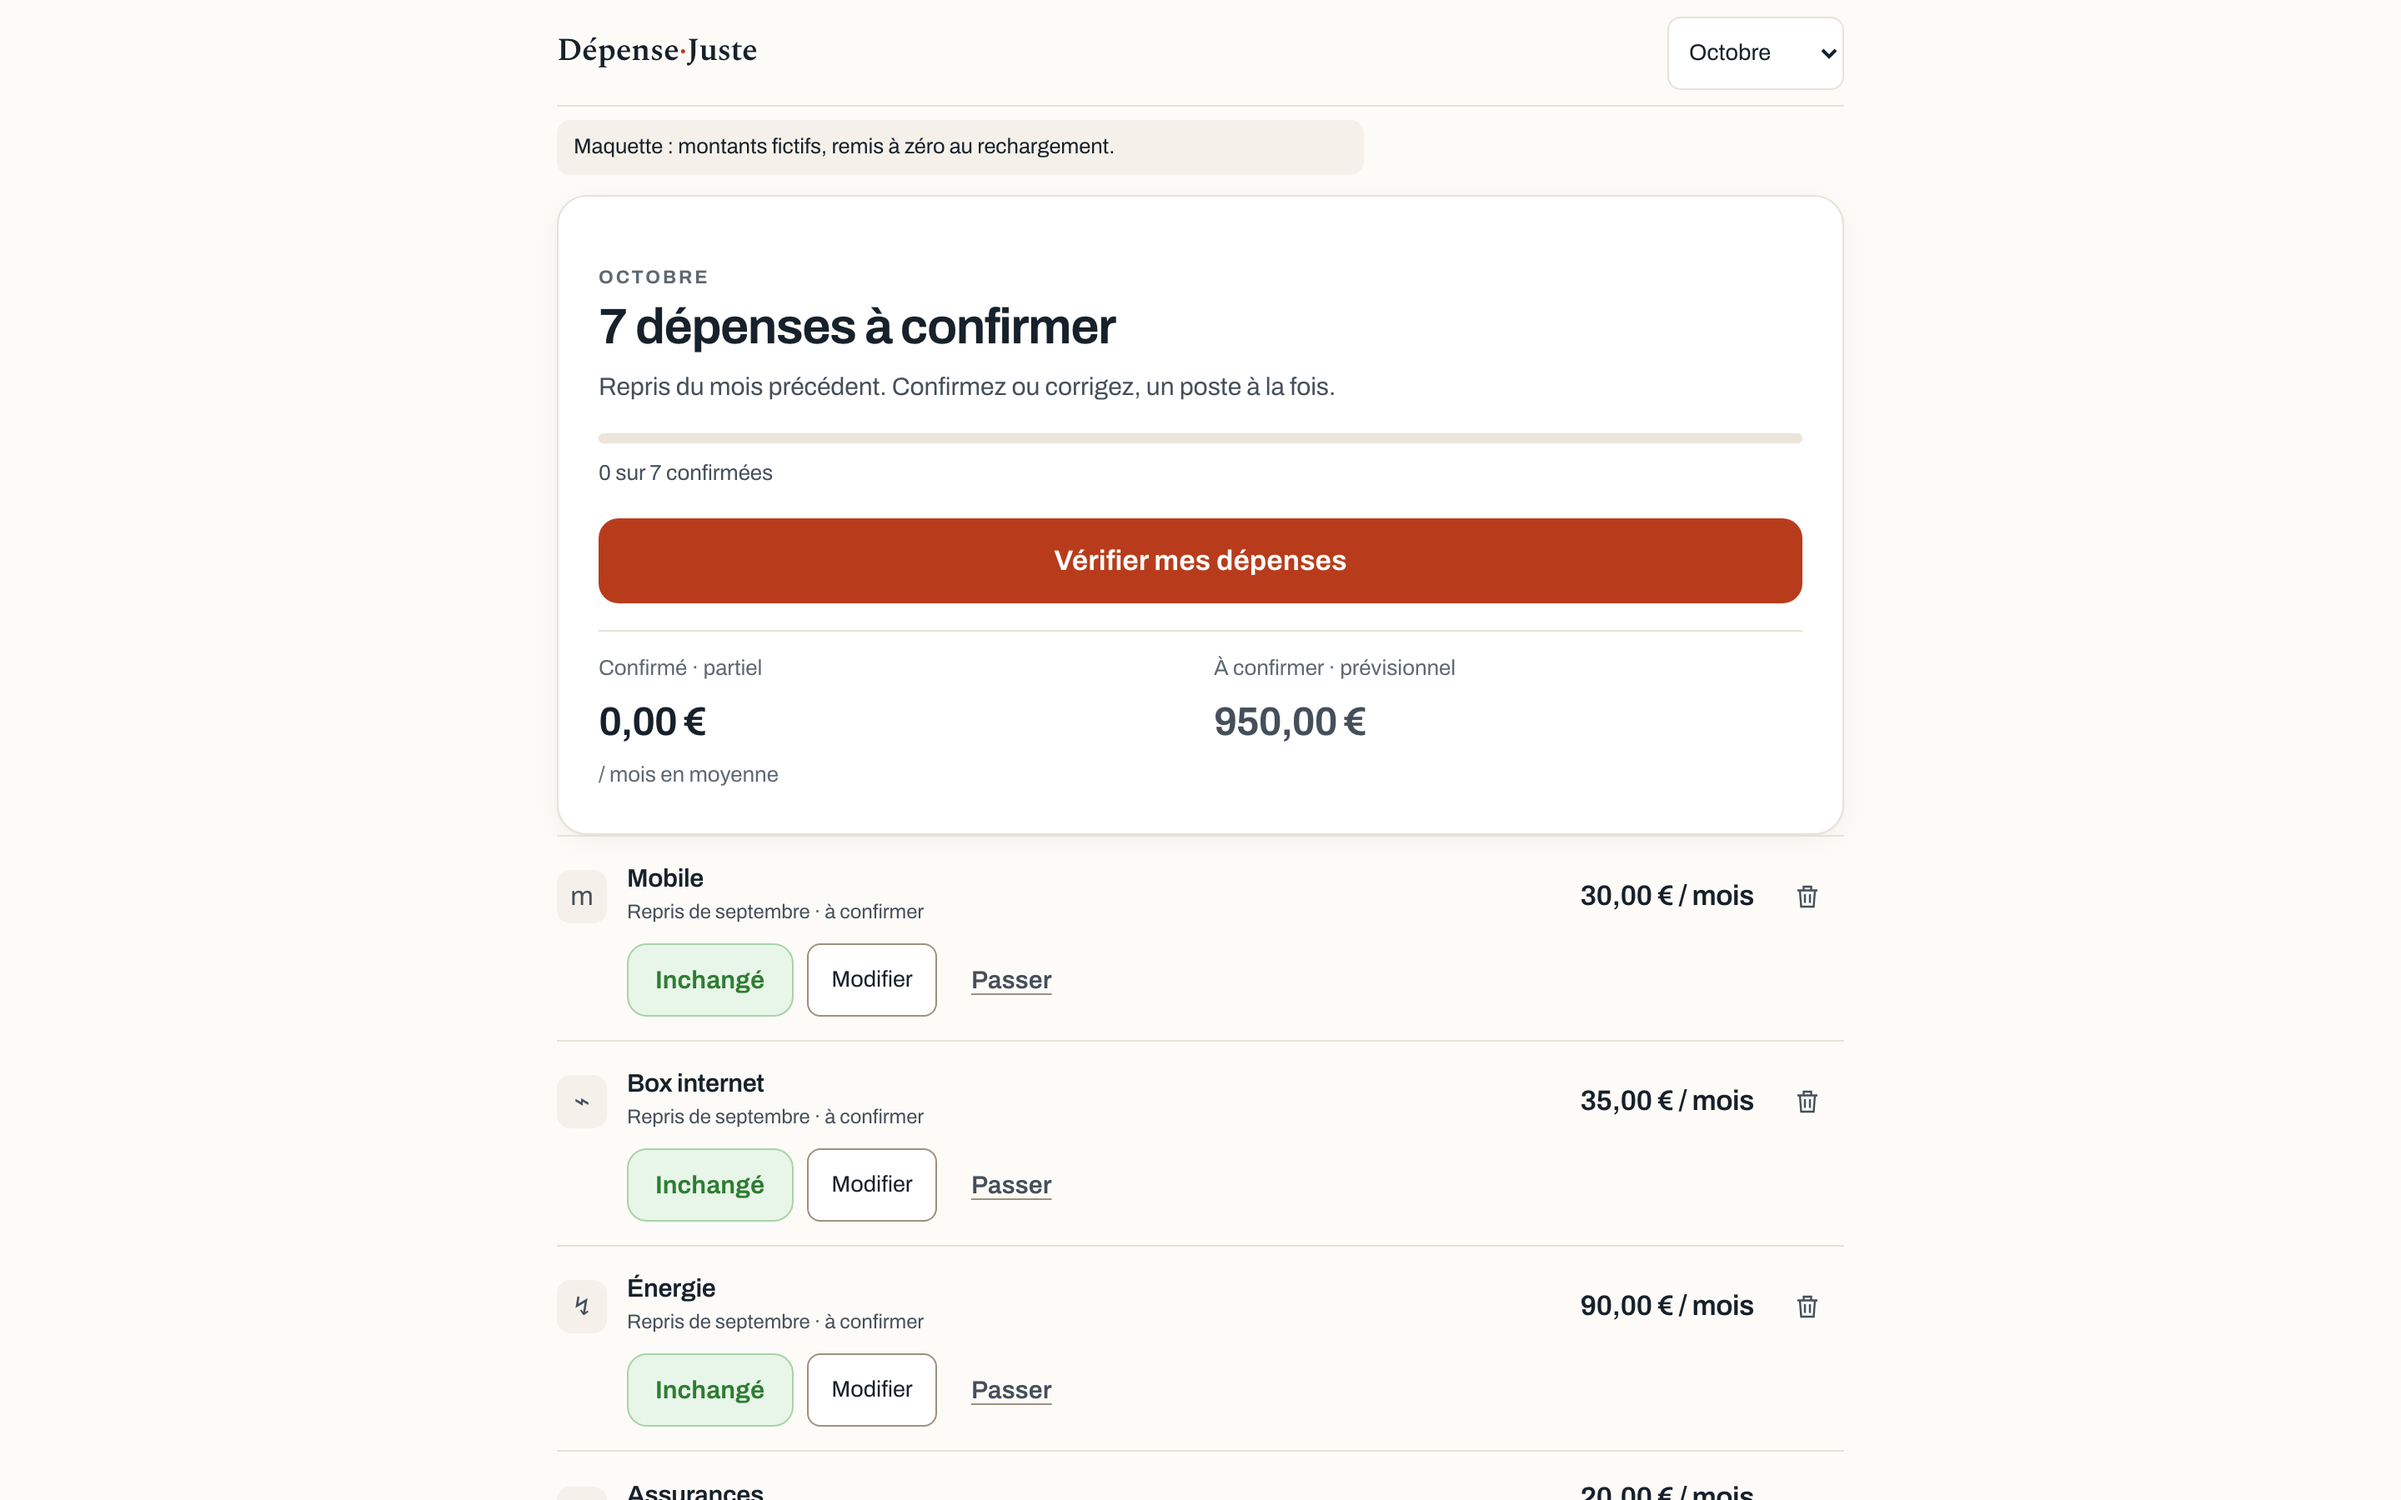
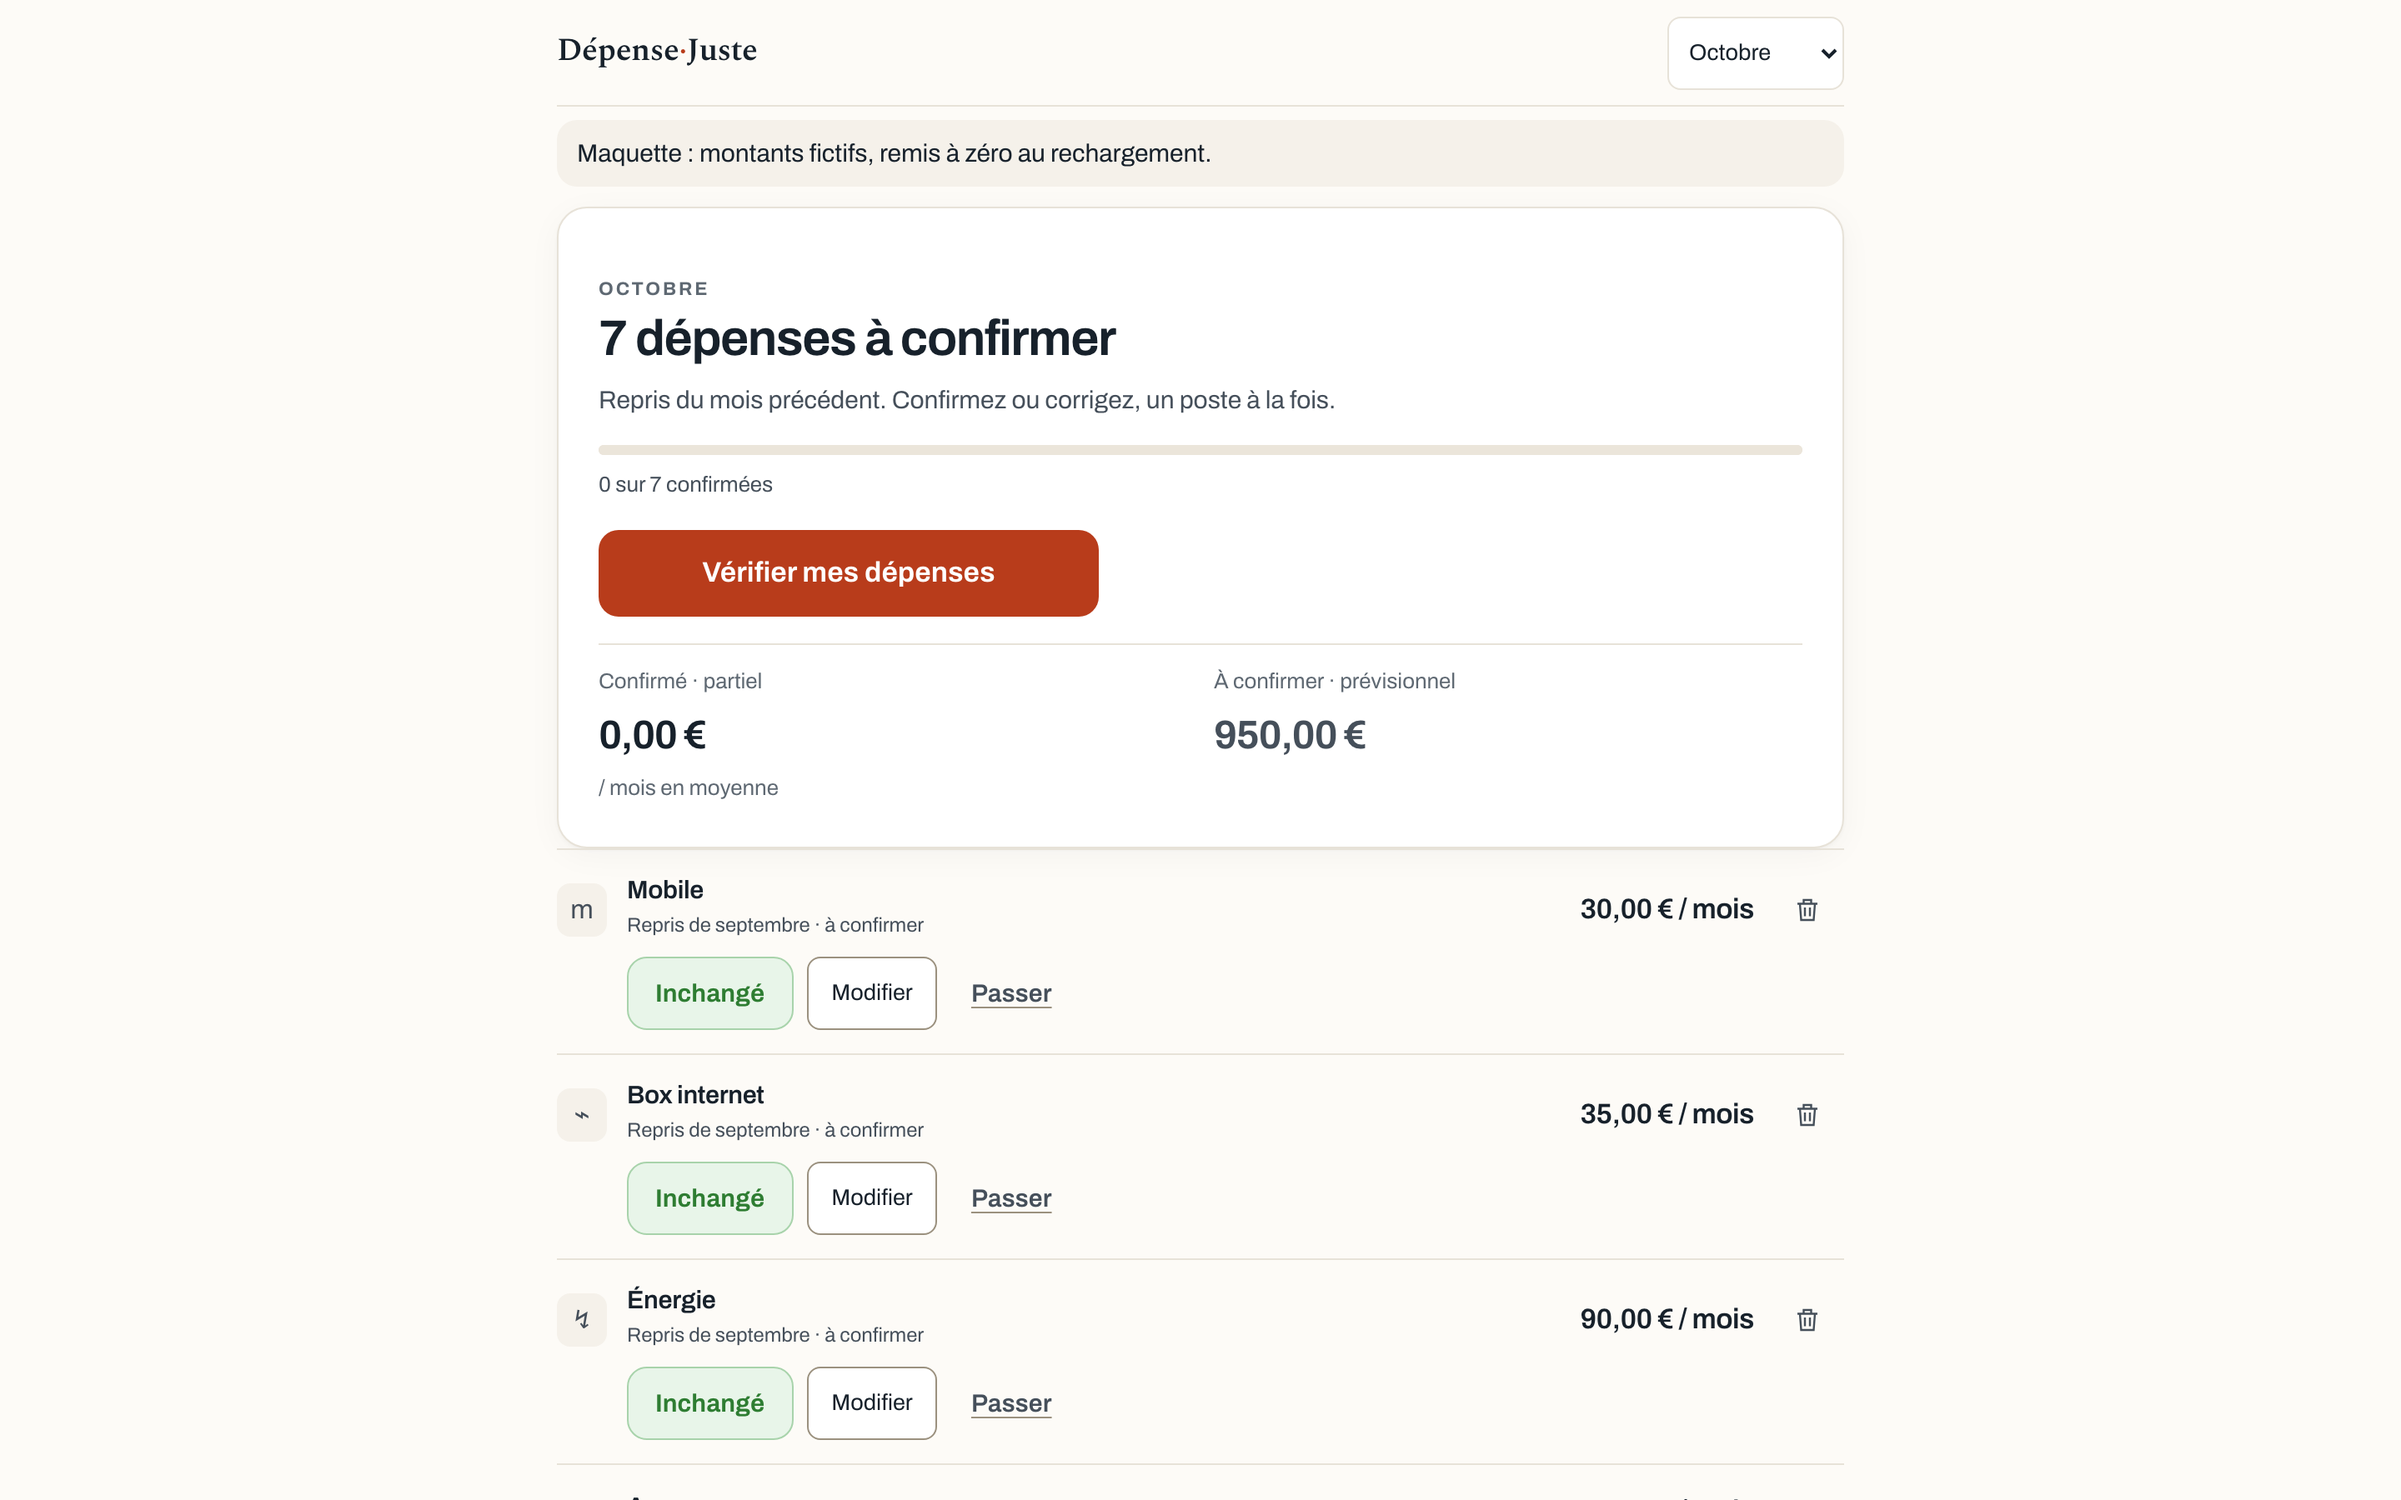
Le bouton principal ne s'étire plus sur mille pixels
Pleine largeur au doigt, où la cible compte ; largeur propre au-delà de 700 px,
où un bouton de la largeur de l'écran n'est pas plus visible, seulement plus
insistant. La mention « montants fictifs » héritait du max-width de lecture des
paragraphes et s'arrêtait aux deux tiers du module : elle suit maintenant sa
largeur. Une règle en double, héritée de l'ancienne feuille, a été retirée.

Captures de comparaison réécrites. 64 tests verts.

diff --git a/web/tableau-demo.css b/web/tableau-demo.css
@@ -15,7 +15,10 @@ button,input,select{font:inherit}button,a,summary{touch-action:manipulation}butt
 .module-attention h2{font-size:var(--t-h2);margin-top:var(--s1)}
 .module-dit{margin:var(--s2) 0 0;font-size:var(--t-small);line-height:1.5;color:var(--ink-muted)}
 .module-attention .review-action{margin-top:var(--s4)}
+/* Pleine largeur au doigt, où la cible compte. Sur grand écran, un bouton de
+   mille pixels n'est pas plus visible, seulement plus insistant. */
 .review-action .primary{width:100%}
+@media(min-width:701px){.review-action .primary{width:auto;min-width:300px}}
 /* Les montants restent au second rang, mais dans le même module : deux cartes
    empilées repoussaient la première dépense à 612 px sur un écran de 568. */
 .module-chiffres{display:grid;grid-template-columns:1fr 1fr;gap:2px var(--s4);margin-top:var(--s4);padding-top:var(--s3);border-top:1px solid var(--line)}
@@ -40,7 +43,7 @@ progress::-moz-progress-bar{background:var(--accent)}
    terracotta, c'était le seul élément coloré de la ligne : l'œil y allait
    avant la validation. */
 .btn-passer{background:none;color:var(--ink-muted);font-weight:600;font-size:var(--t-small);min-height:44px;padding:var(--s2) var(--s3);text-decoration:underline;text-underline-offset:3px;text-decoration-color:var(--line-strong)}
-.btn-passer:hover{color:var(--ink);text-decoration-color:currentColor}.secondary{background:var(--surface);color:var(--ink);border:1px solid var(--line-strong);border-radius:8px;padding:8px 14px;font-size:.85rem}.text-action{background:none;color:var(--signature);padding:8px 4px;font-size:.85rem;font-weight:600}.review-action .primary{width:100%}.demo-note{background:var(--surface-2);border-radius:8px;padding:6px 10px;font-size:.8rem;color:var(--ink);margin:8px 0 0}
+.btn-passer:hover{color:var(--ink);text-decoration-color:currentColor}.secondary{background:var(--surface);color:var(--ink);border:1px solid var(--line-strong);border-radius:8px;padding:8px 14px;font-size:.85rem}.text-action{background:none;color:var(--signature);padding:8px 4px;font-size:.85rem;font-weight:600}.demo-note{background:var(--surface-2);border-radius:var(--r);padding:var(--s2) var(--s3);font-size:var(--t-small);color:var(--ink);margin:var(--s2) 0 0;max-width:none}
 .expenses{border-top:1px solid var(--line)}.expense{display:grid;grid-template-columns:32px minmax(0,1fr) auto 44px;gap:6px 10px;border-bottom:1px solid var(--line);padding:14px 0;align-items:center;scroll-margin-top:12px}.expense-symbol{background:var(--surface-2);border-radius:8px;width:30px;height:32px;display:grid;place-items:center;color:var(--ink-muted)}.expense h3{font-size:.95rem}.expense p{font-size:.75rem;margin:2px 0 0;color:var(--ink-muted)}.value{text-align:right;font-variant-numeric:tabular-nums;font-weight:650;font-size:.95rem}.value small{display:block;font-size:.7rem;font-weight:400;color:var(--ink-muted)}.icon{min-width:44px;min-height:44px;background:none;color:var(--ink-muted);display:grid;place-items:center}.icon svg{width:18px;height:18px}.fast-actions{grid-column:2/-1;display:flex;flex-wrap:wrap;gap:8px;align-items:center}.inline-editor{grid-column:1/-1;min-width:0}.inline-editor:empty{display:none}.inline-editor form{padding:16px;background:var(--surface-2);border-radius:10px}.inline-editor .small,.inline-editor .eyebrow{display:none}.inline-editor h2{font-size:1.15rem}.inline-editor .dialog-head{float:right}#add{margin-top:16px;width:100%}#milestone{background:var(--signature-soft);padding:12px;border-radius:8px;margin:8px 0;font-size:.85rem}#milestone button{display:block}
 .expense.en-cours{background:var(--signature-soft);border-radius:10px;box-shadow:inset 3px 0 0 var(--signature);margin-inline:-10px;padding-inline:10px}
 .annual-details{margin-top:12px;font-size:.85rem;color:var(--ink-muted)}summary{display:flex;align-items:center;cursor:pointer}summary:before{content:'＋';margin-right:8px}.month-invite{margin-top:6px}.view-nav{display:flex;flex-wrap:wrap;gap:4px;border-block:1px solid var(--line);margin-top:20px;padding:8px 0}.view-nav button{flex:1;background:none;color:var(--ink-muted);border-radius:8px;padding:8px;font-size:.8rem}.view-nav [aria-current]{background:var(--signature-soft);color:var(--signature);font-weight:650}footer{font-size:.8rem;color:var(--ink-muted);padding:12px 0 24px}.footer-actions{display:flex;justify-content:space-between;flex-wrap:wrap;gap:8px}.theme-choix{display:flex;gap:6px}.theme-choix button{background:var(--surface);color:var(--ink);border-radius:6px;padding:8px;font-size:.8rem}.theme-choix [aria-pressed=true]{border:1px solid var(--line-strong)}
